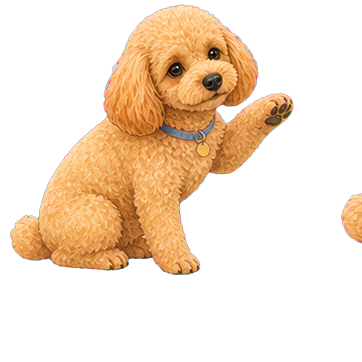
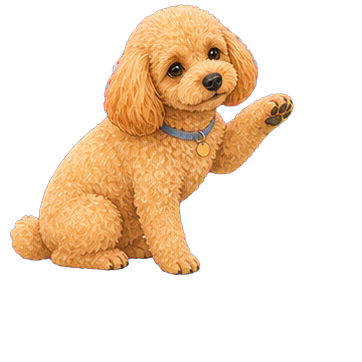
Clean Moka animation frames

Changed region(s): [[0.942, 0.5166, 1.0, 0.6685]]

diff --git a/app/globals.css b/app/globals.css
@@ -1999,8 +1999,11 @@ a.film-card-main { display: block; color: inherit; text-decoration: none; }
 .moka-footer small { opacity: .55; }
 .moka-guide-layer { position: fixed; z-index: 90; inset: auto 0 12px; height: 210px; overflow: hidden; pointer-events: none; }
 .moka-guide { width: 174px; height: 174px; position: absolute; left: 0; bottom: 0; will-change: transform; pointer-events: auto; }
-.moka-guide-character { width: 174px; height: 174px; padding: 0; display: block; border: 0; background: transparent; cursor: pointer; filter: drop-shadow(0 10px 9px rgba(43,35,29,.2)); }
+.moka-guide-character { width: 174px; height: 174px; padding: 0; position: relative; display: block; overflow: hidden; border: 0; background: transparent; cursor: pointer; filter: drop-shadow(0 10px 9px rgba(43,35,29,.2)); }
 .moka-guide-character img { width: 100%; height: 100%; display: block; object-fit: contain; user-select: none; }
+.moka-guide-walk-sprite { position: absolute; inset: 0; display: none; background-image: url('/film/moka/character/moka-walk-strip.png'); background-repeat: no-repeat; background-size: 400% 100%; background-position: 0 0; animation: moka-guide-walk-legs .68s steps(1,end) infinite, moka-guide-walk-bob .34s ease-in-out infinite alternate; }
+.moka-guide[data-moving="true"] .moka-guide-walk-sprite { display: block; }
+.moka-guide[data-moving="true"] .moka-guide-pose { display: none; }
 .moka-guide-bubble { width: max-content; max-width: 230px; min-width: 156px; padding: 13px 35px 13px 15px; position: absolute; z-index: 2; left: 50%; bottom: 148px; opacity: 0; color: #4c4540; border: 1px solid rgba(76,69,64,.14); border-radius: 18px 18px 18px 4px; background: rgba(255,252,244,.96); box-shadow: 0 12px 32px rgba(48,40,34,.14); font-family: var(--font-serif); font-size: 13px; line-height: 1.65; transform: translate(-18%,10px) scale(.96); transition: opacity .35s ease, transform .45s cubic-bezier(.2,.8,.2,1); pointer-events: none; }
 .moka-guide-bubble::after { content: ""; width: 12px; height: 12px; position: absolute; left: 24px; bottom: -7px; border-right: 1px solid rgba(76,69,64,.14); border-bottom: 1px solid rgba(76,69,64,.14); background: rgba(255,252,244,.96); transform: rotate(45deg); }
 .moka-guide-bubble.is-visible { opacity: 1; transform: translate(-18%,0) scale(1); pointer-events: auto; }
@@ -2008,6 +2011,8 @@ a.film-card-main { display: block; color: inherit; text-decoration: none; }
 .moka-guide[data-direction="left"] .moka-guide-bubble.is-visible { transform: translate(-58%,0) scale(1) scaleX(-1); }
 .moka-guide-bubble button { width: 28px; height: 28px; padding: 0; position: absolute; top: 4px; right: 4px; border: 0; border-radius: 50%; color: #8d8178; background: transparent; cursor: pointer; }
 .moka-guide-wake { position: fixed; z-index: 90; right: 18px; bottom: 18px; padding: 11px 15px; border: 1px solid rgba(64,59,53,.18); border-radius: 999px; color: #5b524c; background: rgba(255,251,242,.94); box-shadow: 0 9px 28px rgba(48,40,34,.13); font-family: var(--font-serif); font-size: 11px; cursor: pointer; }
+@keyframes moka-guide-walk-legs { 0%,24.99% { background-position: 0 0; } 25%,49.99% { background-position: 33.333% 0; } 50%,74.99% { background-position: 66.666% 0; } 75%,100% { background-position: 100% 0; } }
+@keyframes moka-guide-walk-bob { from { margin-top: 0; } to { margin-top: -2px; } }
 
 /* Miru moving-storybook sample */
 .miru-book-demo { color: #403b35; background: #f8f3ea; }

diff --git a/app/film/moka-demo/MokaGuide.tsx b/app/film/moka-demo/MokaGuide.tsx
@@ -5,7 +5,6 @@ import { useCallback, useEffect, useRef, useState } from "react";
 /* eslint-disable @next/next/no-img-element -- Transparent character frames are animation sprites. */
 
 const framePath = "/film/moka/character/frames";
-const walkFrames = ["walk-01", "walk-02", "walk-03", "walk-04"] as const;
 const reactions = ["head-tilt", "paw-wave", "speak-open"] as const;
 
 const messages: Record<string, string[]> = {
@@ -15,14 +14,14 @@ const messages: Record<string, string[]> = {
   letter: ["いつもの毎日が、宝物だったんだ。", "最後まで見てくれて、ありがとう。"],
 };
 
-type Pose = typeof walkFrames[number] | typeof reactions[number] | "idle" | "sit";
+type Pose = typeof reactions[number] | "idle" | "sit";
 
 export function MokaGuide() {
   const guideRef = useRef<HTMLDivElement>(null);
   const activeSection = useRef("cover");
   const pausedUntil = useRef(0);
   const reactionTimer = useRef<ReturnType<typeof setTimeout> | null>(null);
-  const [pose, setPose] = useState<Pose>("walk-01");
+  const [pose, setPose] = useState<Pose>("idle");
   const [message, setMessage] = useState(messages.cover[0]);
   const [bubbleVisible, setBubbleVisible] = useState(true);
   const [resting, setResting] = useState(false);
@@ -74,14 +73,13 @@ export function MokaGuide() {
 
     let x = Math.min(window.innerWidth * 0.7, window.innerWidth - 230);
     let direction = -1;
-    let frame = 0;
     let previous = performance.now();
-    let frameAt = previous;
     let animationId = 0;
     const move = (now: number) => {
       const delta = Math.min(now - previous, 34);
       previous = now;
       if (now >= pausedUntil.current) {
+        guide.dataset.moving = "true";
         const characterWidth = window.innerWidth <= 640 ? 126 : 174;
         const minX = window.innerWidth <= 640 ? 4 : 20;
         const maxX = Math.max(minX, window.innerWidth - characterWidth - minX);
@@ -92,11 +90,8 @@ export function MokaGuide() {
         }
         guide.style.transform = `translate3d(${x}px,0,0) scaleX(${direction > 0 ? 1 : -1})`;
         guide.dataset.direction = direction > 0 ? "right" : "left";
-        if (now - frameAt > 190) {
-          frame = (frame + 1) % walkFrames.length;
-          setPose(walkFrames[frame]);
-          frameAt = now;
-        }
+      } else {
+        guide.dataset.moving = "false";
       }
       animationId = requestAnimationFrame(move);
     };
@@ -127,7 +122,8 @@ export function MokaGuide() {
           <button type="button" onClick={() => setResting(true)} aria-label="モカを休ませる">×</button>
         </div>
         <button className="moka-guide-character" type="button" onClick={() => speak(reactions[Math.floor(Math.random() * reactions.length)])} aria-label="モカに話しかける">
-          <img src={`${framePath}/${pose}.png`} alt="" draggable={false} />
+          <span className="moka-guide-walk-sprite" aria-hidden="true" />
+          <img className="moka-guide-pose" src={`${framePath}/${pose}.png`} alt="" draggable={false} />
         </button>
       </div>
     </aside>
